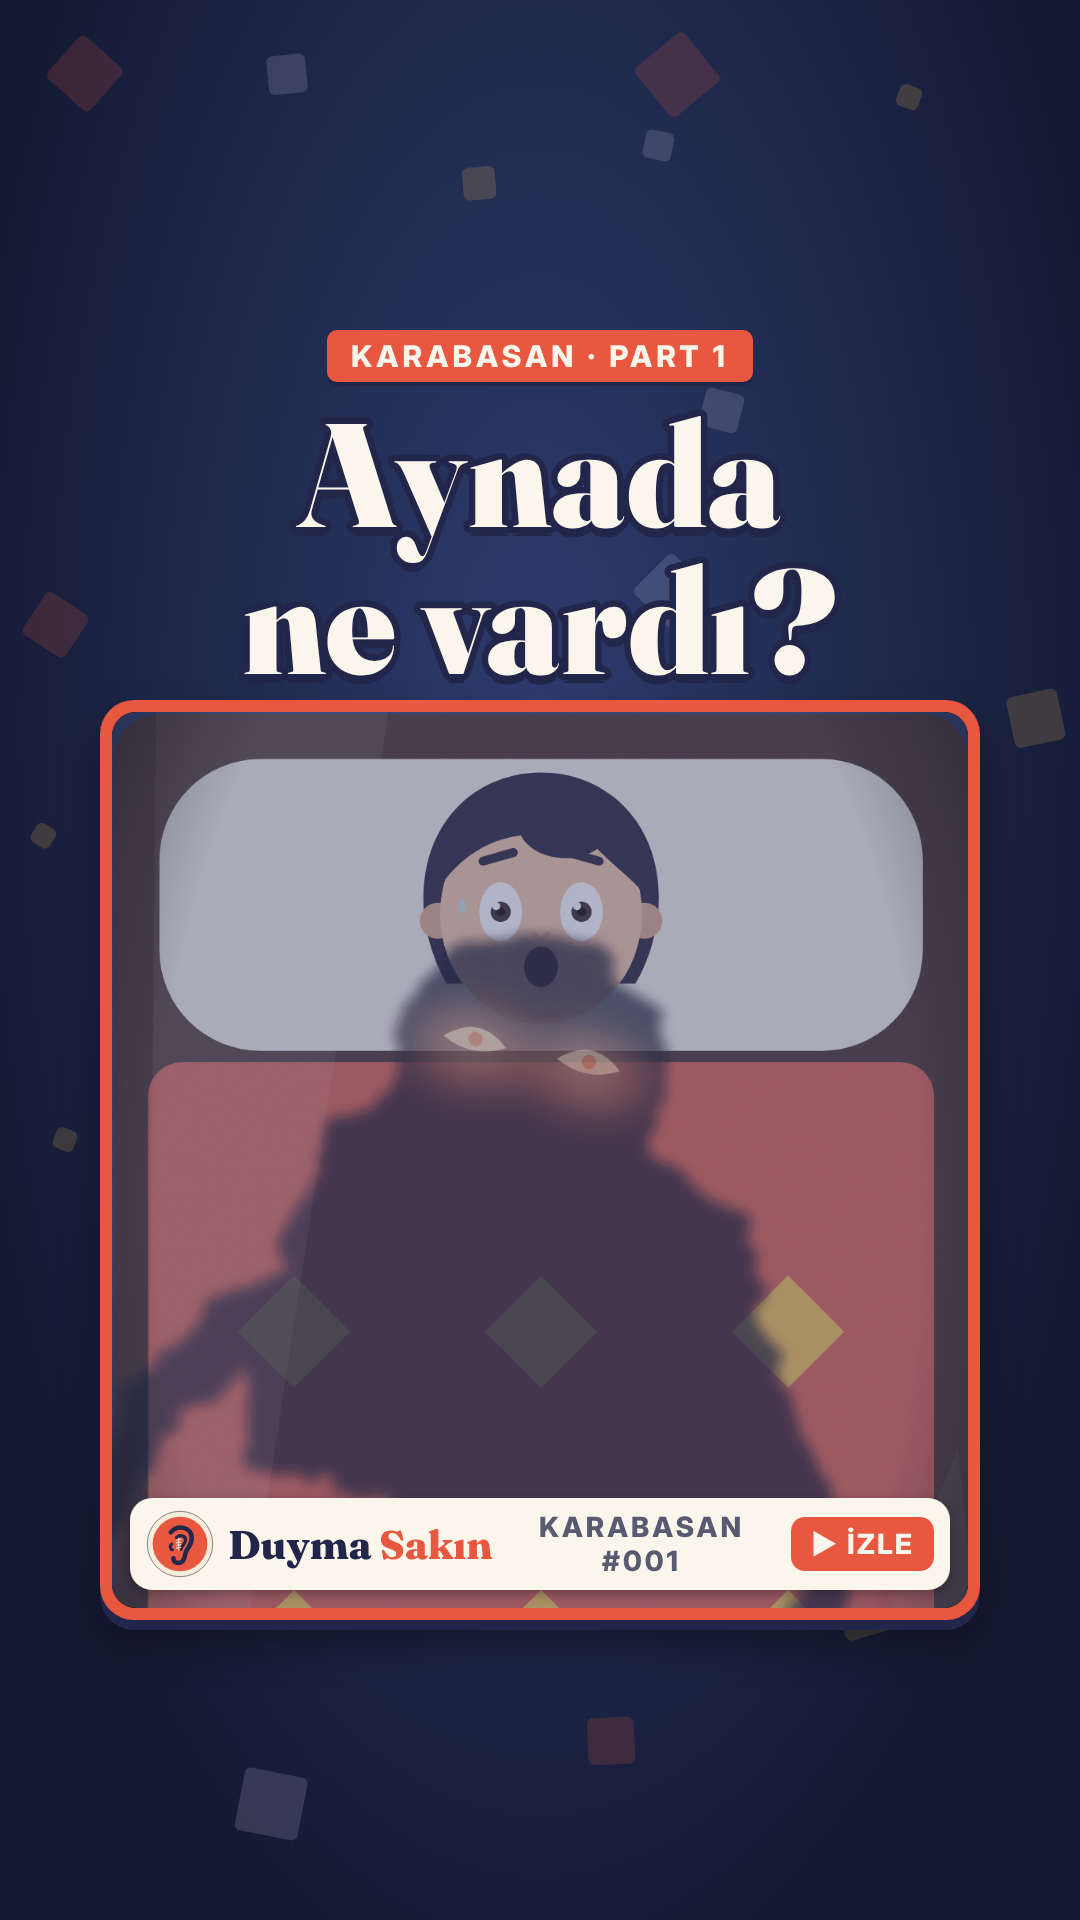
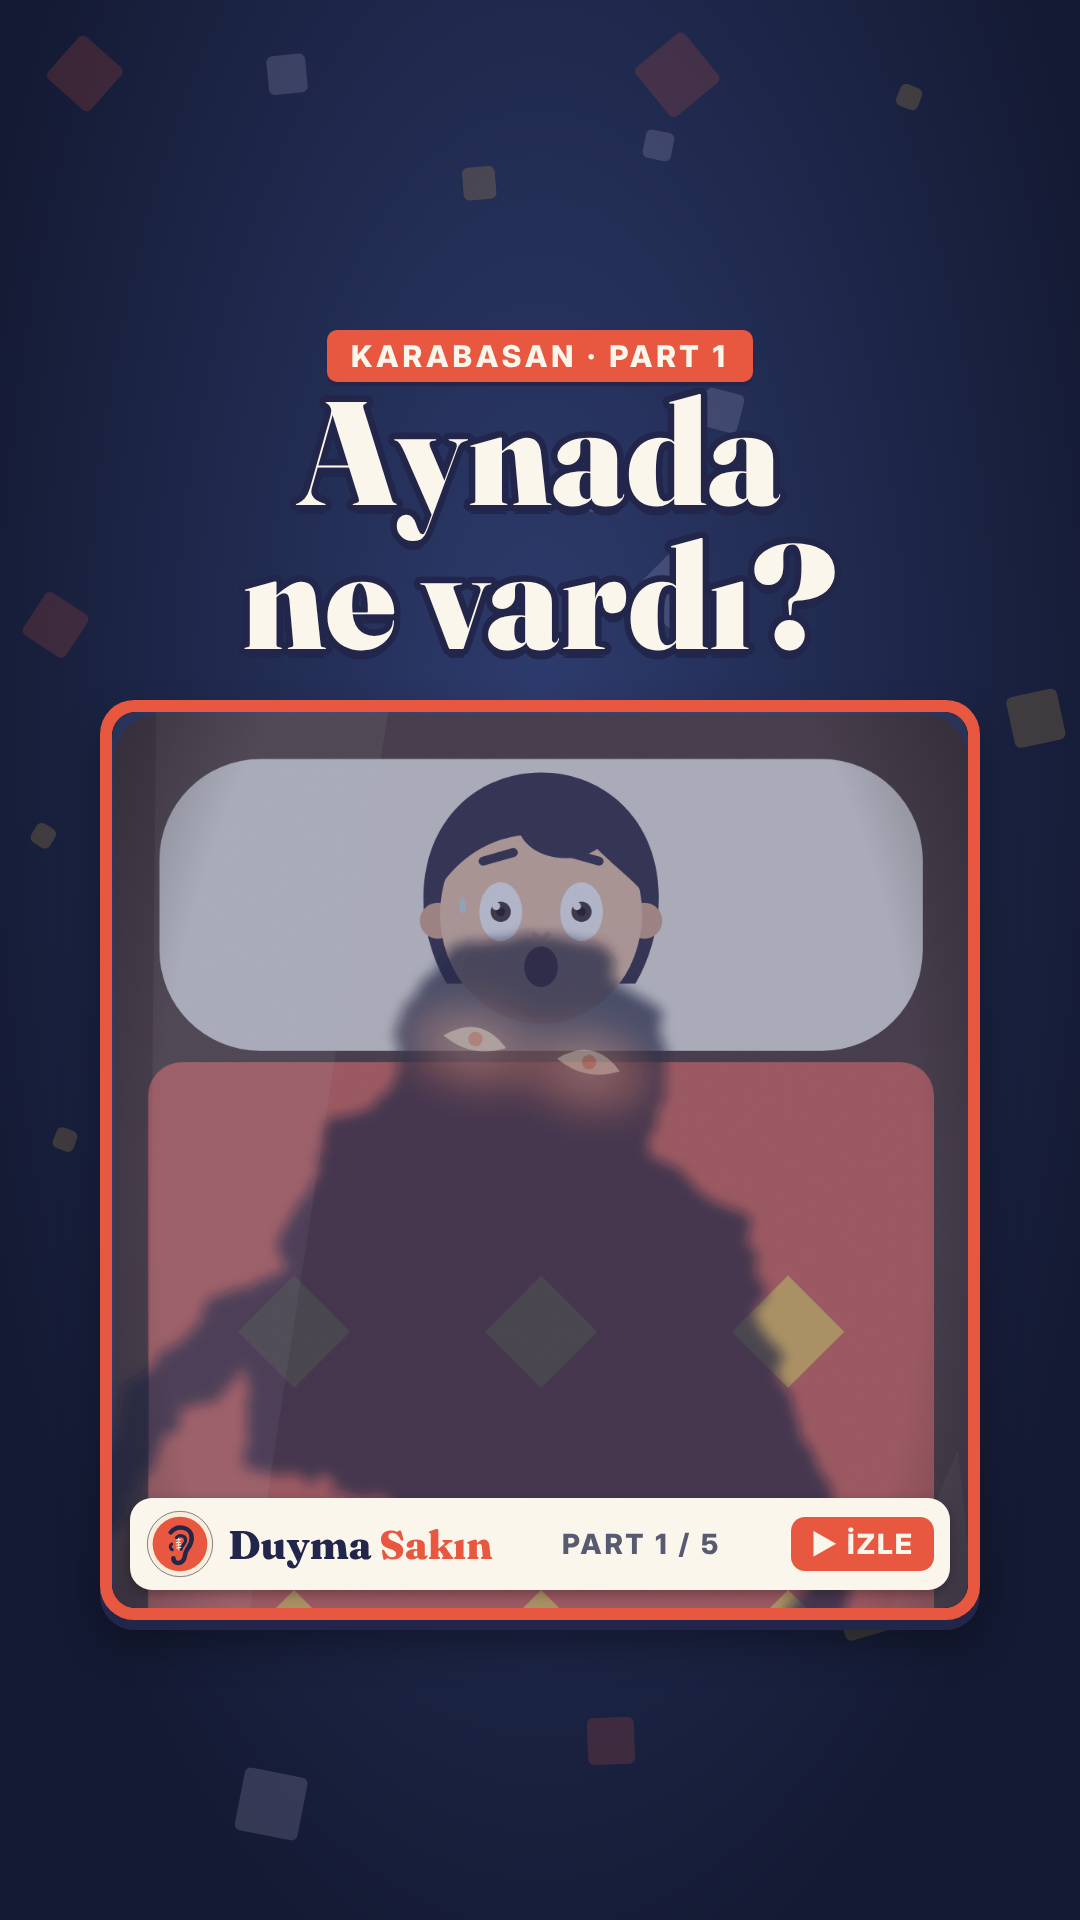
Muska altyazı bandının üstünde, sayma noktaları, kapak alt şeridi PART N / 5; Part 1-3 kapakları
Claude-Session: https://claude.ai/code/session_01WfPggS4dh4xhzWemV5wpkW

Changed region(s): [[0.2139, 0.1875, 0.7944, 0.375], [0.4889, 0.7812, 0.6722, 0.8438]]

diff --git a/uretim/src/marka/Kapak.tsx b/uretim/src/marka/Kapak.tsx
@@ -12,17 +12,17 @@ import { Logo } from "./Logo";
 import { KAPAK_KIRP, RENK } from "./yerlesim";
 import { hash } from "../motor/yardimci";
 
-export type KapakProps = { zemin: string; satir1: string; satir2: string; no: number; etiket: string; renk: string[]; desen: string[] };
+export type KapakProps = { zemin: string; satir1: string; satir2: string; no: number; etiket: string; renk: string[]; desen: string[]; alt?: string };
 
 const KART = { x: 100, y: 700, w: 880, cerceve: 12 };
 
-export const Kapak: React.FC<KapakProps> = ({ zemin, satir1, satir2, no, etiket, renk, desen }) => {
+export const Kapak: React.FC<KapakProps> = ({ zemin, satir1, satir2, no, etiket, renk, desen, alt }) => {
   const boyut = Math.min(150, Math.floor(900 / (Math.max(satir1.length, satir2.length) * 0.68)));
   const ic = KART.w - KART.cerceve * 2;
   const olcek = ic / KAPAK_KIRP.w;
   const icH = Math.round(KAPAK_KIRP.h * olcek);
   const baslik: React.CSSProperties = {
-    fontFamily: FONT.baslik, fontWeight: 900, fontSize: boyut, lineHeight: 1.0, color: RENK.kagit,
+    fontFamily: FONT.baslik, fontWeight: 900, fontSize: boyut, lineHeight: 0.98, color: RENK.kagit,
     WebkitTextStroke: `${Math.round(boyut * 0.09)}px ${RENK.lacivert}`, paintOrder: "stroke fill",
     textShadow: `0 ${Math.round(boyut * 0.06)}px 0 ${RENK.lacivert}`, letterSpacing: 1,
   };
@@ -44,7 +44,7 @@ export const Kapak: React.FC<KapakProps> = ({ zemin, satir1, satir2, no, etiket,
         </div>
       </div>
       {/* başlık */}
-      <div style={{ position: "absolute", top: 400, left: 60, right: 60, textAlign: "center" }}>
+      <div style={{ position: "absolute", top: 380, left: 60, right: 60, textAlign: "center" }}>
         <div style={baslik}>{satir1}</div>
         <div style={baslik}>{satir2}</div>
       </div>
@@ -61,7 +61,7 @@ export const Kapak: React.FC<KapakProps> = ({ zemin, satir1, satir2, no, etiket,
               Duyma <span style={{ color: RENK.mercan }}>Sakın</span>
             </div>
             <div style={{ flex: 1, textAlign: "center", fontFamily: FONT.metin, fontWeight: 800, fontSize: 28, letterSpacing: 3, color: RENK.lacivert, opacity: 0.75 }}>
-              {etiket.split("·")[0].trim().toLocaleUpperCase("tr-TR")} #{String(no).padStart(3, "0")}
+              {alt ? alt.toLocaleUpperCase("tr-TR") : `${etiket.split("·")[0].trim().toLocaleUpperCase("tr-TR")} #${String(no).padStart(3, "0")}`}
             </div>
             <div style={{ background: RENK.mercan, color: RENK.kagit, fontFamily: FONT.metin, fontWeight: 800, fontSize: 28,
               letterSpacing: 2, padding: "10px 20px", borderRadius: 14 }}>▶ İZLE</div>

diff --git a/uretim/src/stiller/duz-vektor/gece.tsx b/uretim/src/stiller/duz-vektor/gece.tsx
@@ -203,7 +203,7 @@ export const YastikMuska: React.FC<{ f: number; kalk: number; muska: number; par
     <rect width={1080} height={1920} fill="#EDE6DA" />
     {Array.from({ length: 10 }, (_, i) => <rect key={i} x={0} y={i * 200 + 90} width={1080} height={6} fill="#D8CFC0" />)}
     {muska > 0 ? (
-      <g transform="translate(540 1050)" opacity={muska}>
+      <g transform="translate(540 760)" opacity={muska}>  {/* altyazı bandının (1040-1186) üstünde */}
         {parla > 0 ? <circle r={300} fill="url(#dv-lambaIsik)" opacity={parla} /> : null}
         <path d="M-30 -200 C-60 -260 60 -260 30 -200" fill="none" stroke="#7A5A3A" strokeWidth={10} />
         <path d="M-170 -180 L170 -180 L0 160 Z" fill={DV.mercan} />
@@ -213,7 +213,7 @@ export const YastikMuska: React.FC<{ f: number; kalk: number; muska: number; par
     ) : null}
     {parmak > 0 ? (
       <g filter="url(#dv-duman)" opacity={Math.min(1, parmak * 2)}>
-        <path d={`M1080 ${1180} C${1000 - parmak * 260} 1170 ${760 - parmak * 120} 1150 ${700 + (1 - parmak) * 420} 1120 L${700 + (1 - parmak) * 420} 1150 C${820} 1190 1000 1210 1080 1220 Z`} fill={DV.karanlik} />
+        <path d={`M1080 ${900} C${1000 - parmak * 260} 890 ${760 - parmak * 120} 870 ${700 + (1 - parmak) * 420} 840 L${700 + (1 - parmak) * 420} 870 C${820} 910 1000 930 1080 940 Z`} fill={DV.karanlik} />
       </g>
     ) : null}
     <g transform={`translate(0 ${-kalk * 900}) rotate(${-kalk * 8} 540 900)`}>

diff --git a/uretim/src/bolumler/seri/Part5.tsx b/uretim/src/bolumler/seri/Part5.tsx
@@ -33,7 +33,7 @@ export const cekimler5 = (O: Record<string, number>): Cekim[] => [
   { bas: O.al - 4, gecis: "cozul", k0: { s: 2.2, cx: 540, cy: 620 }, k1: { s: 2.0, cx: 540, cy: 660 },
     ciz: (lf, f) => (
       <g><YatakUst f={f} lamba={0.35} ay={0.8} ifade="gerilim" acik={0.6} basinc={1} nefes={2.5} kb={{ gor: 1, netlik: 0.9, goz: 1, y: 800 }} />
-        {[0, 1, 2, 3].map((i) => <circle key={i} cx={420 + i * 80} cy={330} r={22} fill={DV.hardal} opacity={ilerle(f, O.say + i * 9, O.say + i * 9 + 4)} />)}
+        {[0, 1, 2, 3].map((i) => <circle key={i} cx={420 + i * 80} cy={840} r={24} fill={DV.hardal} opacity={ilerle(f, O.say + i * 9, O.say + i * 9 + 4)} />)}
         {f > O.ver ? <ellipse cx={540} cy={560 - (f - O.ver) * 2} rx={60 + (f - O.ver) * 3} ry={30 + (f - O.ver)} fill="#fff" opacity={Math.max(0, 0.45 - (f - O.ver) * 0.012)} filter="url(#dv-yumusak)" /> : null}
       </g>
     ) },
